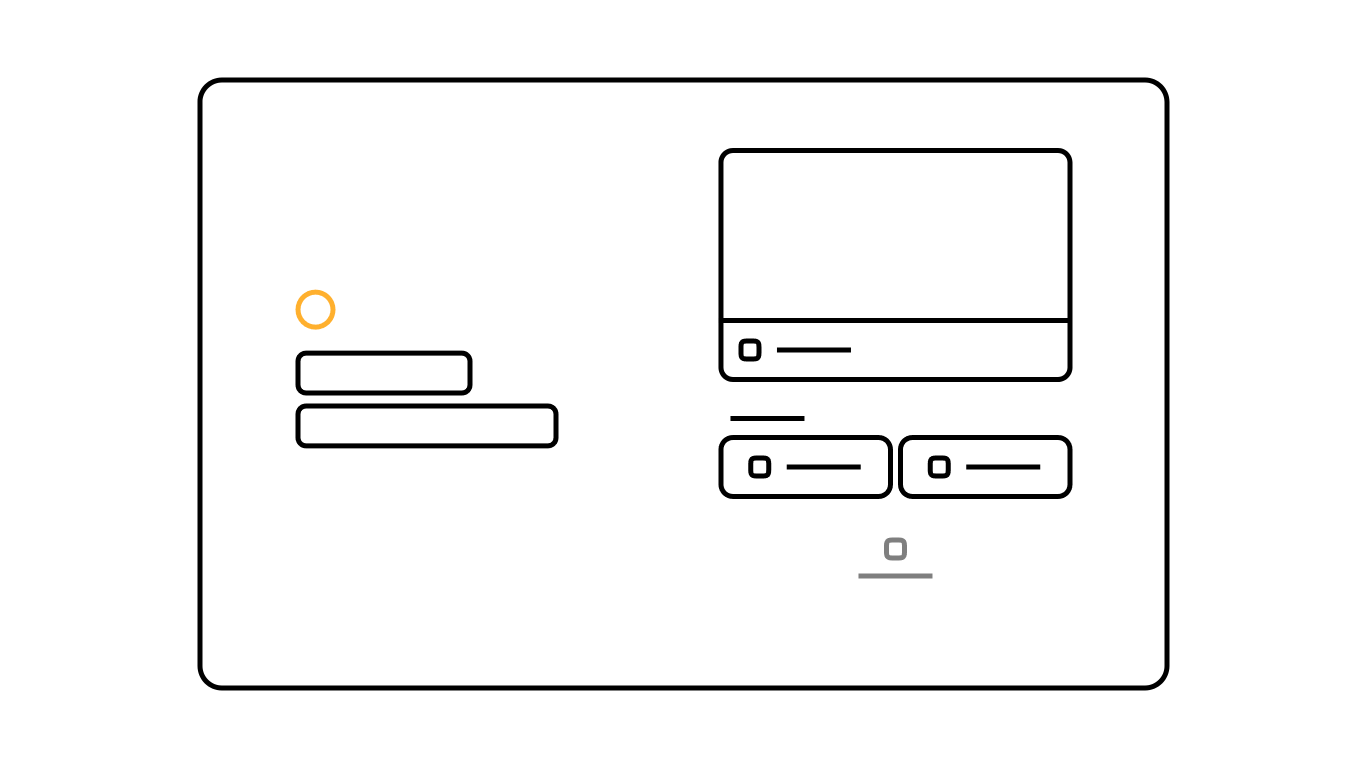
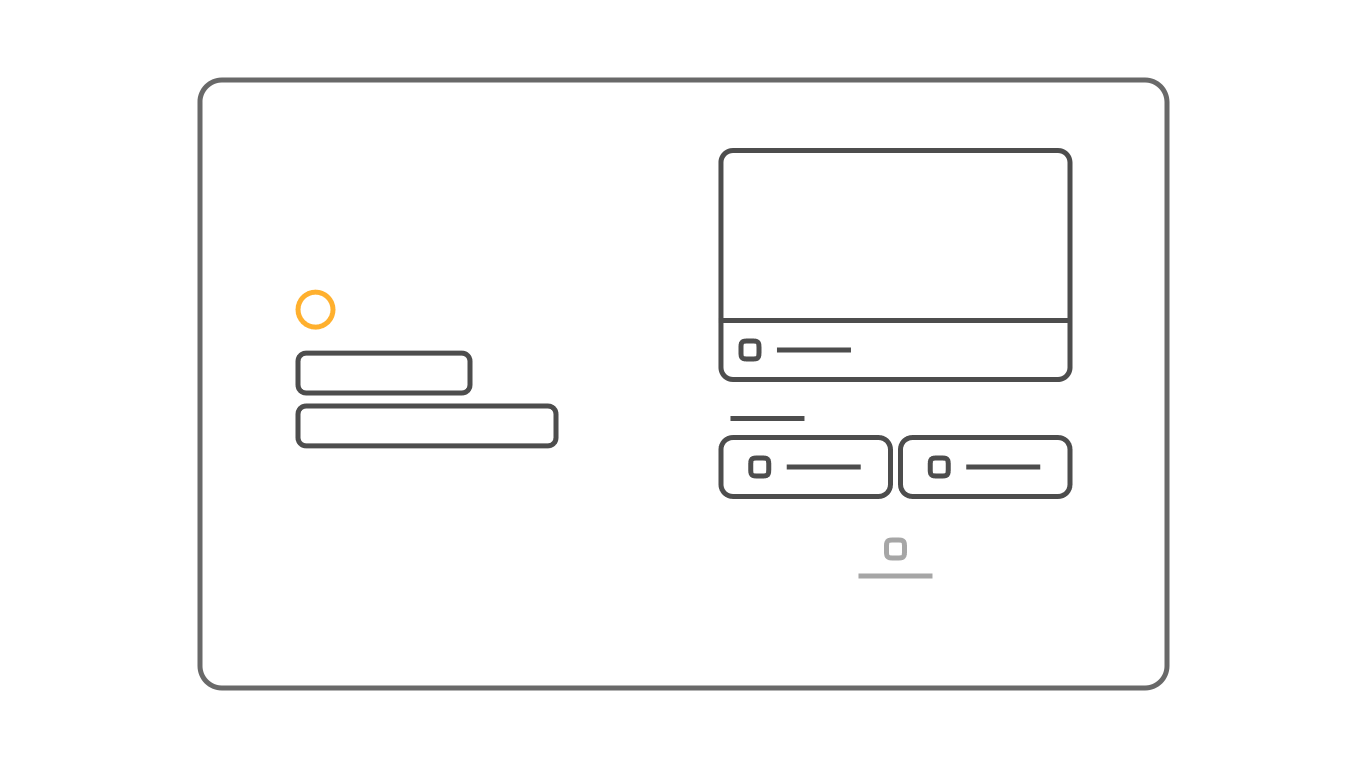
[所有模块] 优化深浅色模式样式和 404 页面部分样式

diff --git a/404.html b/404.html
@@ -60,6 +60,7 @@
         p {
             color: var(--text-color-uni-50);
             user-select: none;
+            margin: 0;
         }
 
         p span {
@@ -67,10 +68,21 @@
             user-select: none;
             font-weight: 500;
             font-size: 20px;
+            margin-left: -1px;
         }
 
         main {
             padding: 16px;
+            display: flex;
+            flex-direction: row;
+            align-items: center;
+            justify-content: space-between;
+        }
+
+        icon {
+            font-family: "SegoeFlunetIcons";
+            font-size: 13px;
+            margin-top: 4px;
         }
     </style>
 
@@ -85,10 +97,12 @@
         </div>
     </h1>
     <main>
-        <p>hmm...
+        <p>oops!
             <br><span>看起来，你要找的页面好像走丢了</span>
         </p>
-        <twinkle-button onclick="goHome()">回到首页</twinkle-button>
+        <twinkle-button onclick="goHome()">
+            <icon></icon>回到首页
+        </twinkle-button>
     </main>
 
     <script>

diff --git a/index/javascript/functions.js b/index/javascript/functions.js
@@ -53,16 +53,19 @@ class BackToHome extends HTMLElement {
                 padding: 0px;
                 height: 32px;
                 width: 52px;
-                transition: background 0.25s ease-in-out;
+                transition: background 0.25s ease-in-out, border 0.25s ease-in-out;
                 background: unset;
                 border-radius: 6px;
                 display: flex;
                 align-items: center;
                 justify-content: center;
+                box-sizing: border-box;
+                border: solid 1px transparent;
             }
 
             button:hover {
                 background: var(--backicon-bg, currentColor);
+                border: solid 1px var(--backicon-border-color, currentColor);
             }
 
             button:hover #backicon {

diff --git a/design/fontpre/style/main.css b/design/fontpre/style/main.css
@@ -5,6 +5,7 @@
         --text-color-50: rgba(255, 255, 255, 0.5);
         --text-color-25: rgba(255, 255, 255, 0.25);
         --color-bg: #262626;
+        --backicon-border-color: #a19565;
         --backicon-bg: #D6C47A;
         --backicon-color: #fff9e8;
     }
@@ -17,9 +18,15 @@
         --text-color-50: rgba(0, 0, 0, 0.35);
         --text-color-25: rgba(0, 0, 0, 0.1);
         --color-bg: #F4F3F3;
-        --backicon-bg: #D6C47A;
-        --backicon-color: #fff9e8;
+        --backicon-bg: #fce99e;
+        --backicon-border-color: #baad79;
+        --backicon-color: #000000;
     }
+}
+
+back-to-home {
+    width: 52px;
+    height: 32px;
 }
 
 body {
